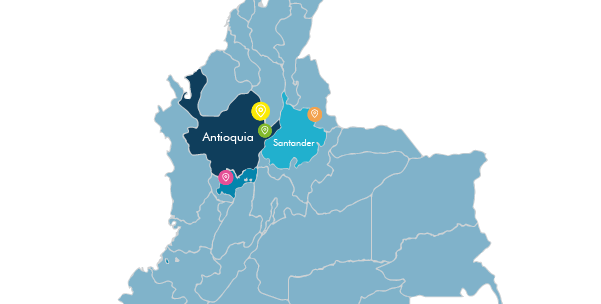
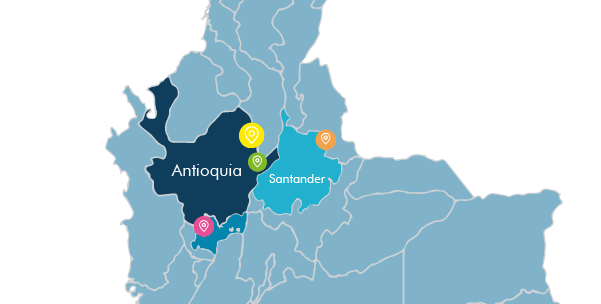
Interactividad mapa

Changed region(s): [[0.1498, 0.0, 0.9584, 1.0], [0.629, 0.5625, 0.6589, 0.5921], [0.5391, 0.7401, 0.5691, 0.7697]]

diff --git a/assets/js/interactividad.js b/assets/js/interactividad.js
@@ -223,64 +223,6 @@ $(document).ready(function () {
   });
 
 
-// Mover el tooltip junto con el cursor
-// $('#main-image').mousemove(function (e) {
-//   if(e.pageX >= 1075 && e.pageX <= 1109 && e.pageY >= 90 && e.pageY <= 117){
-//     $('#img-1').show();
-//   }else{
-//     $('#img-1').hide();
-//   }
-
-//   if(e.pageX >= 1074 && e.pageX <= 1125 && e.pageY > 115 && e.pageY <= 128){
-//     $('#img-2').show();
-//     $('#img-2').css('margin-top', '15px');
-
-//   }else{
-//     $('#img-2').hide();
-//   }
-
-//   if(e.pageX >= 1076 && e.pageX <= 1112 && e.pageY > 137 && e.pageY <= 147){
-//     $('#img-3').show();
-//     $('#img-3').css('margin-top', '35px');
-
-//   }else{
-//     $('#img-3').hide();
-//   }
-//   // console.log(e.pageX);
-
-//   if(e.pageX >= 1116 && e.pageX <= 1135 && e.pageY > 147 && e.pageY <= 159){
-//     $('#img-4').show();
-//     $('#img-4').css('margin-top', '45px');
-
-//   }else{
-//     $('#img-4').hide();
-//   }
-
-//   if(e.pageX >= 1065 && e.pageX <= 1100 && e.pageY > 160 && e.pageY <= 188){
-//     $('#img-5').show();
-//     $('#img-5').css('margin-top', '55px');
-
-//   }else{
-//     $('#img-5').hide();
-//   }
-
-//   if(e.pageX >= 1135 && e.pageX <= 1168 && e.pageY >= 290 && e.pageY <= 325 ){
-//     $('#img-6').show();
-//     $('#img-6').css('margin-top', '150px');
-
-//   }else{
-//     $('#img-6').hide();
-//   }
-
-//   if(e.pageX >= 1038 && e.pageX <= 1075 && e.pageY >= 455 && e.pageY <= 485 ){
-//     $('#img-7').show();
-//     $('#img-7').css('margin-top', '200px');
-
-//   }else{
-//     $('#img-7').hide();
-//   }
-// });
-  
   $('.zoom').magnify();
   sistemaVotacion();
   preguntas01();
@@ -457,15 +399,6 @@ reproducirAudioImagen();
   });
 
 
-
-  // var logoImage = document.getElementById("logoImage");
-  // function checkScreenWidth() {
-  //     var newImageSrc = window.innerWidth <= 768 ? "assets/img/logo_slide_05_movil.png" : "assets/img/logoW.png";
-  //     logoImage.src = newImageSrc;
-  // }
-  // window.onload = checkScreenWidth;
-// window.addEventListener("resize", checkScreenWidth);
-
   //Actualizar el progreso del curso cada vez que se avanza en los slides
   $("#next").on('click', function() {
     // updateProgress();
@@ -475,7 +408,37 @@ reproducirAudioImagen();
   carrusel();
   popsAudios();
 
+
+  //Zoom Mapa
+  var currentZoomLevel = 1;
+  var maxZoomLevel = 4;
+  var minZoomLevel = 1;
+
+  $('#zoom_1').click(function() {
+      if (currentZoomLevel < maxZoomLevel) {
+          currentZoomLevel++;
+          updateImageMap();
+      }
+  });
+
+  $('#zoom_2').click(function() {
+      if (currentZoomLevel > minZoomLevel) {
+          currentZoomLevel--;
+          updateImageMap();
+      }
+  });
+
+ function updateImageMap() {
+  var imgSrc = 'assets/img/mapa-operacion/zoom' + currentZoomLevel + '.png';
+  $('#mapa-img').fadeOut(200, function() {
+    $(this).attr('src', imgSrc).fadeIn(300);
+  });
+}
+
 });
+
+ 
+  
 
   function changeImage2(element, newSrc) {
     element.src = newSrc;

diff --git a/modulo.html b/modulo.html
@@ -293,12 +293,10 @@
                             <img src="assets/img/mapa-operacion/departamentos.png" alt="">
                         </div>
                         <div class="containerimg">
-                            <img class="iconomapa" id="" style="margin-top: 28%; margin-left: 55%; cursor: pointer;" src="assets/img/mapa-operacion/mapa-mas.png" value="1">
-                            <img class="iconomapa" id="" style="margin-top: 28%; margin-left: 60%; cursor: pointer;" src="assets/img/mapa-operacion/mapa-menos.png" value="1">
-                            <img src="assets/img/mapa-operacion/mapa-general.png" alt=""> 
-                            <!--<img src="assets/img/mapa-operacion/zoom1.png" alt="">-->
-                                 <!--<img src="assets/img/mapa-operacion/zoom2" alt="">-->
-                                  <!--<img src="assets/img/mapa-operacion/zoom3" alt="">-->
+                            <img class="iconomapa" id="zoom_1" style="margin-top: 28%; margin-left: 55%; cursor: pointer;" src="assets/img/mapa-operacion/mapa-mas.png">
+                            <img class="iconomapa" id="zoom_2" style="margin-top: 28%; margin-left: 60%; cursor: pointer;" src="assets/img/mapa-operacion/mapa-menos.png">
+                            <img id="mapa-img" src="assets/img/mapa-operacion/zoom1.png" alt=""> 
+                           
                         </div>
                     </div>
                 </div>

diff --git a/assets/css/style.css b/assets/css/style.css
@@ -1418,6 +1418,8 @@
             align-items: center;
             position: relative;
         }
+
+        
         .pc-movil-slide-20-1{
             width: 30% !important;
         }
@@ -1635,6 +1637,8 @@
                 color:white; 
                 font-size:12px;
             }
+
+
             select {
                 width: 90%;
                 padding: 8px;
